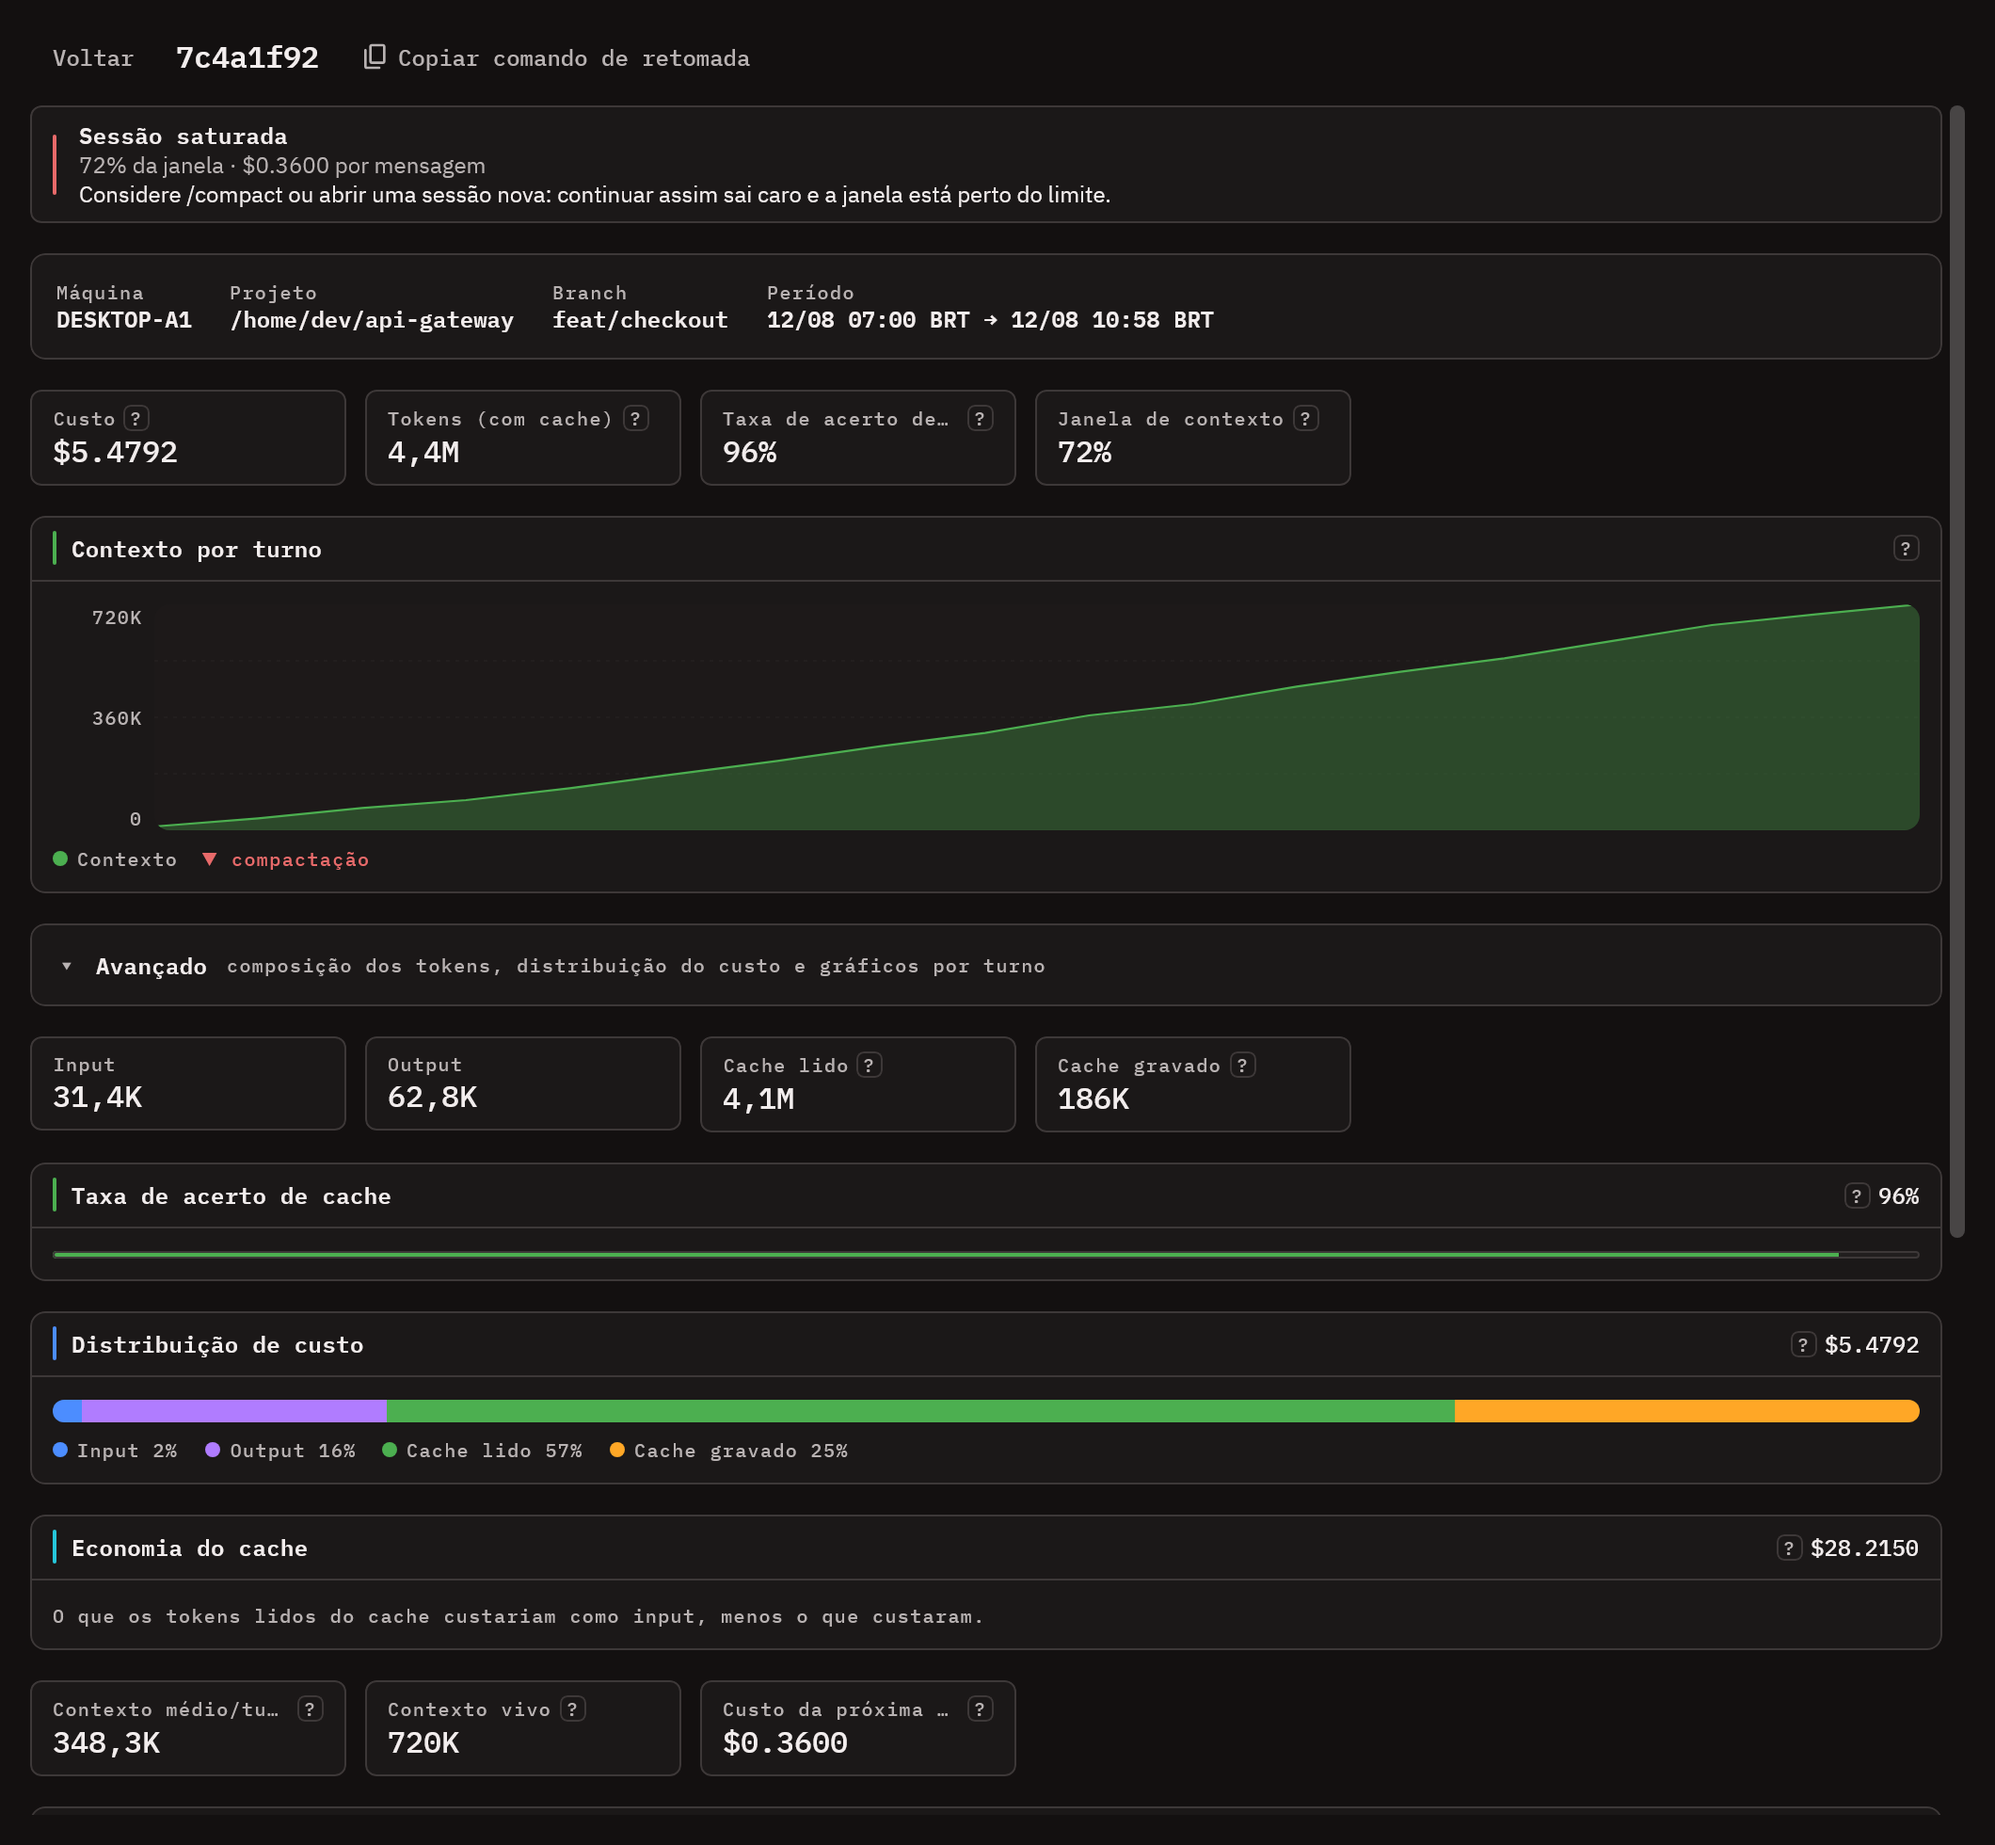
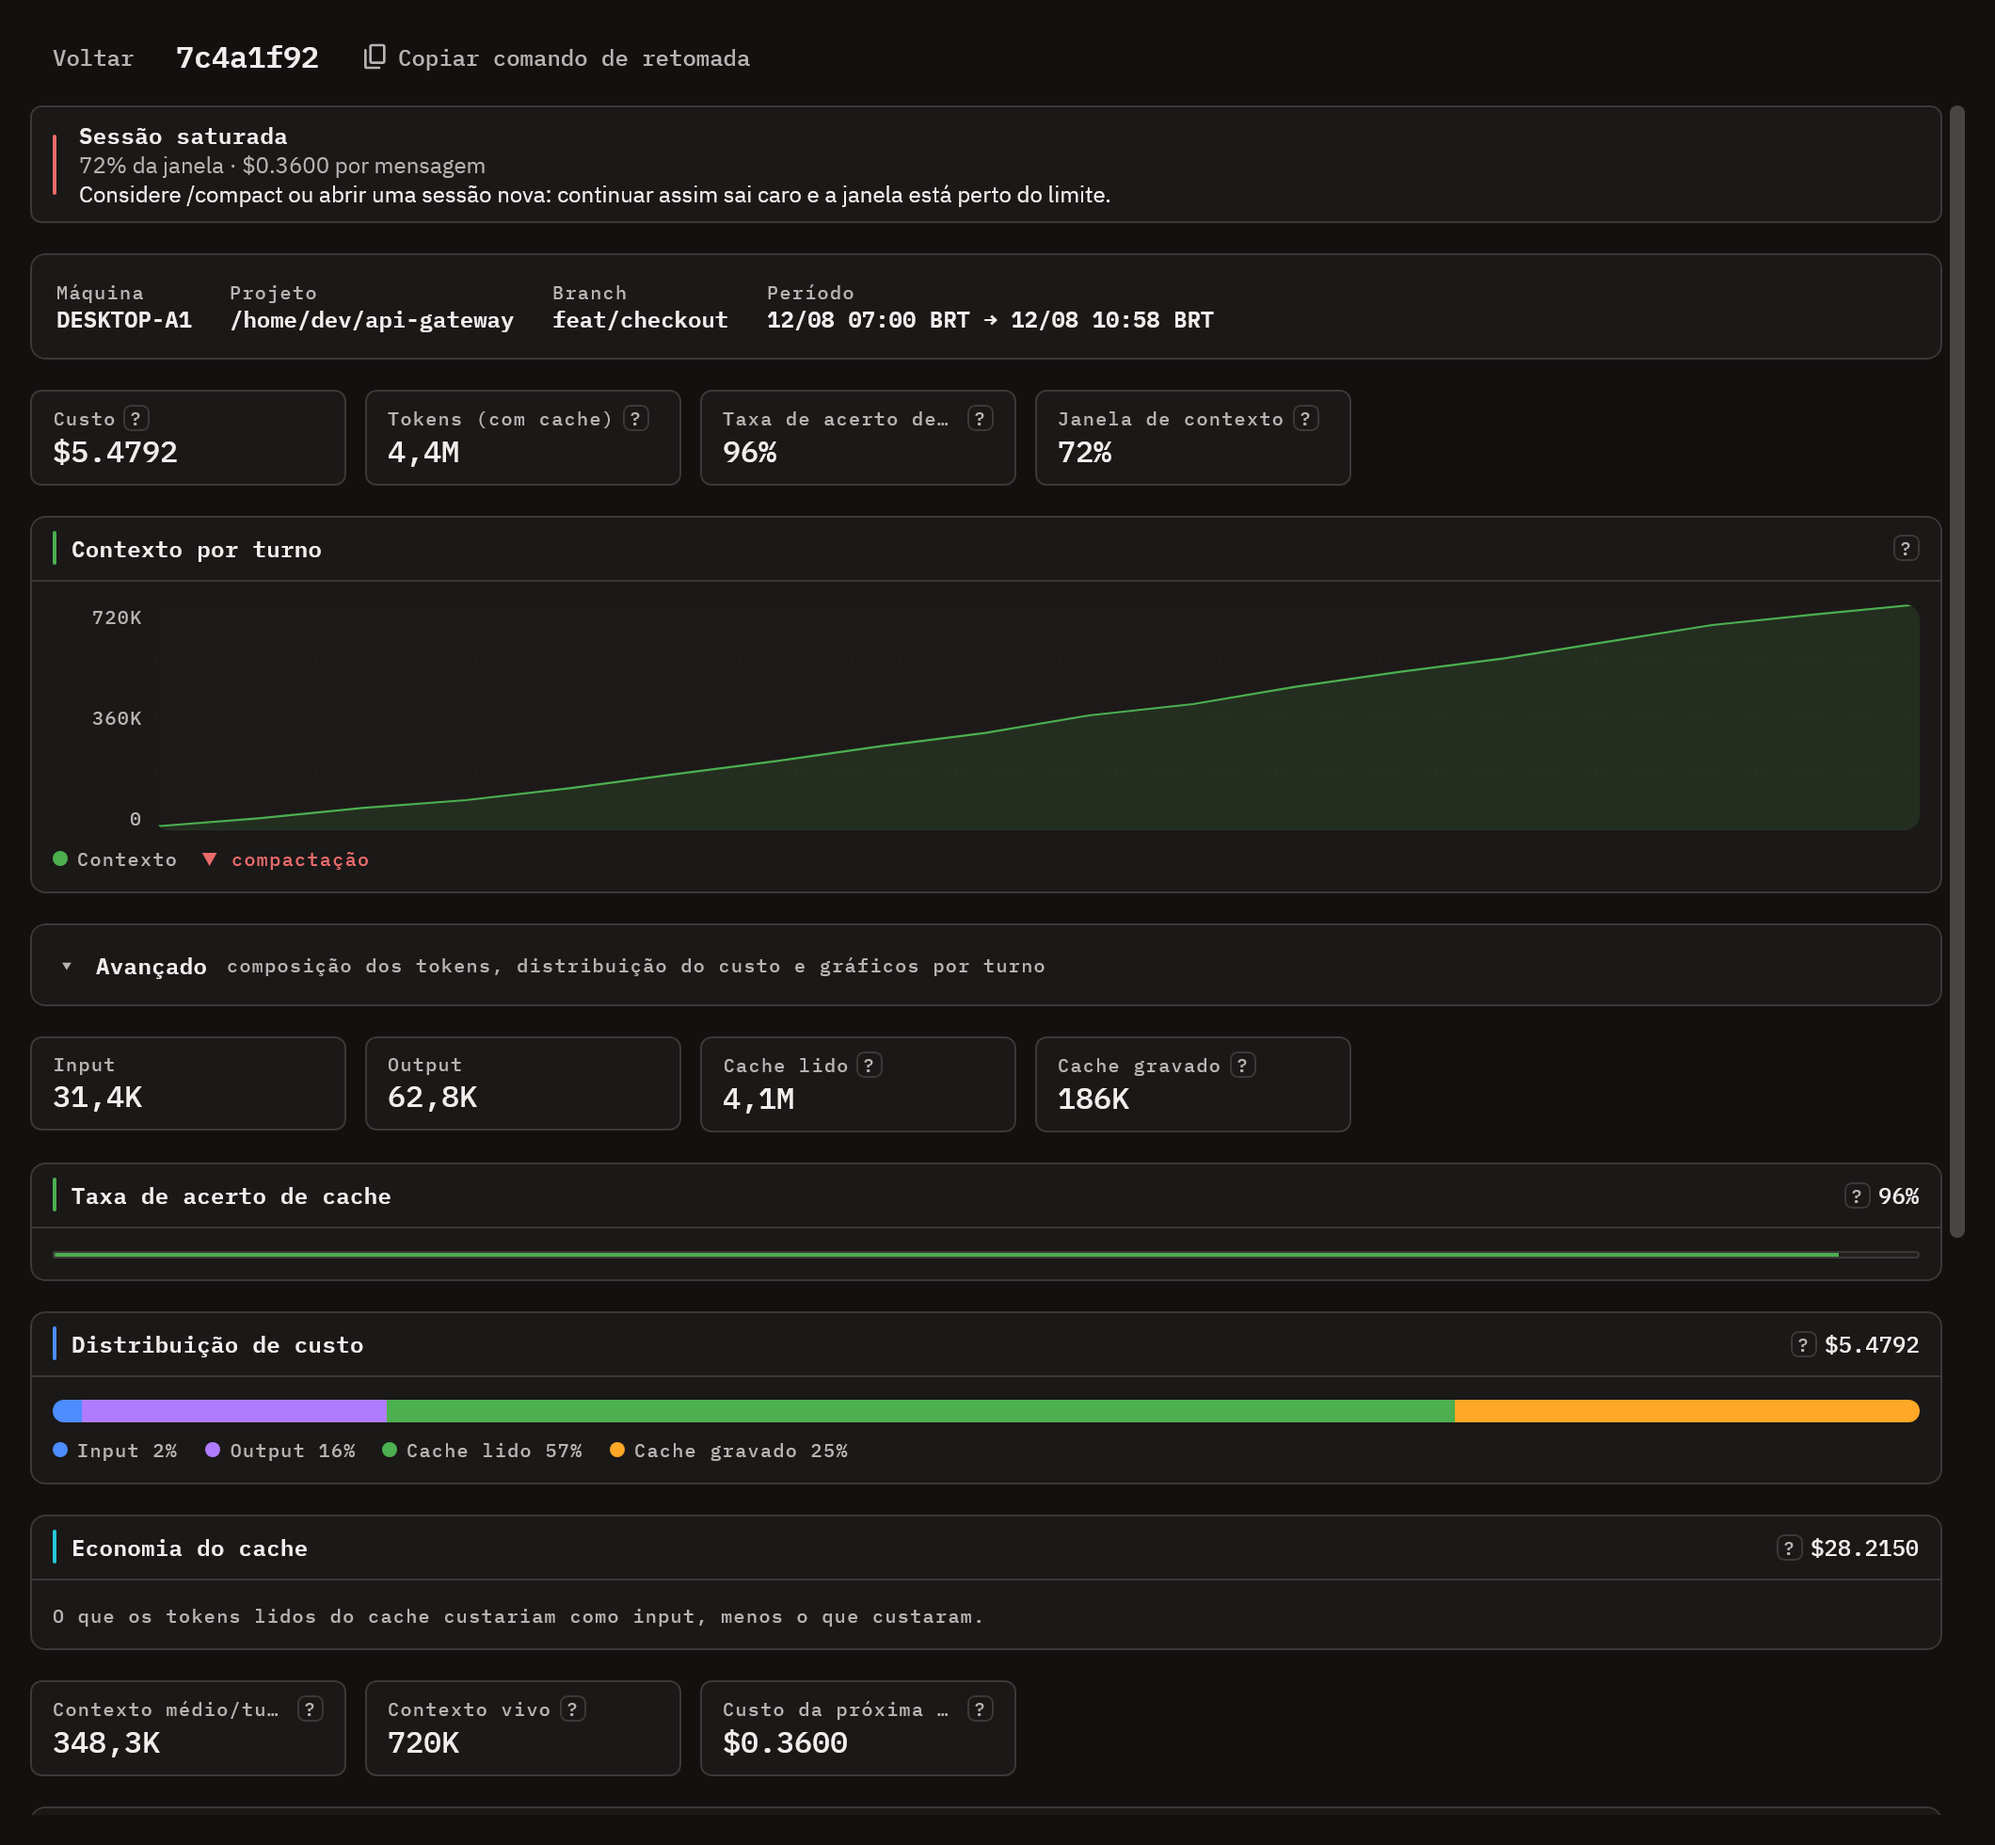
fix(ui): lighten the turn chart area fill
O 0.32 de alfa era o topo de um gradiente que se apagava ate a base. Com o
preenchimento chapado que substituiu o degrade, aquele valor pinta a area inteira
no tom mais forte, e no detalhe de sessao a mancha verde passou a pesar mais que
a propria linha — que e onde o dado esta.

Changed region(s): [[0.0934, 0.3112, 0.9651, 0.4668]]

diff --git a/src/commonMain/kotlin/com/usagemonitor/presentation/ui/components/TurnSeriesChart.kt b/src/commonMain/kotlin/com/usagemonitor/presentation/ui/components/TurnSeriesChart.kt
@@ -52,7 +52,11 @@ private val AXIS_LABEL_WIDTH = 54.dp
 private val TOOLTIP_WIDTH = 150.dp
 private const val LINE_STROKE_PX = 2.2f
 private const val GRID_STROKE_PX = 1f
-private const val AREA_TOP_ALPHA = 0.32f
+// 0.32 era o topo de um gradiente que se apagava até a base. Com o preenchimento
+// chapado — o sistema visual não tem degradê —, aquele valor pinta a área toda no
+// tom mais forte, e a mancha passa a pesar mais que a própria linha, que é onde o
+// dado está.
+private const val AREA_TOP_ALPHA = 0.14f
 private const val GRID_ALPHA = 0.35f
 private const val MIN_BAR_WIDTH_PX = 3f
 private const val BAR_GAP_FRACTION = 0.28f
